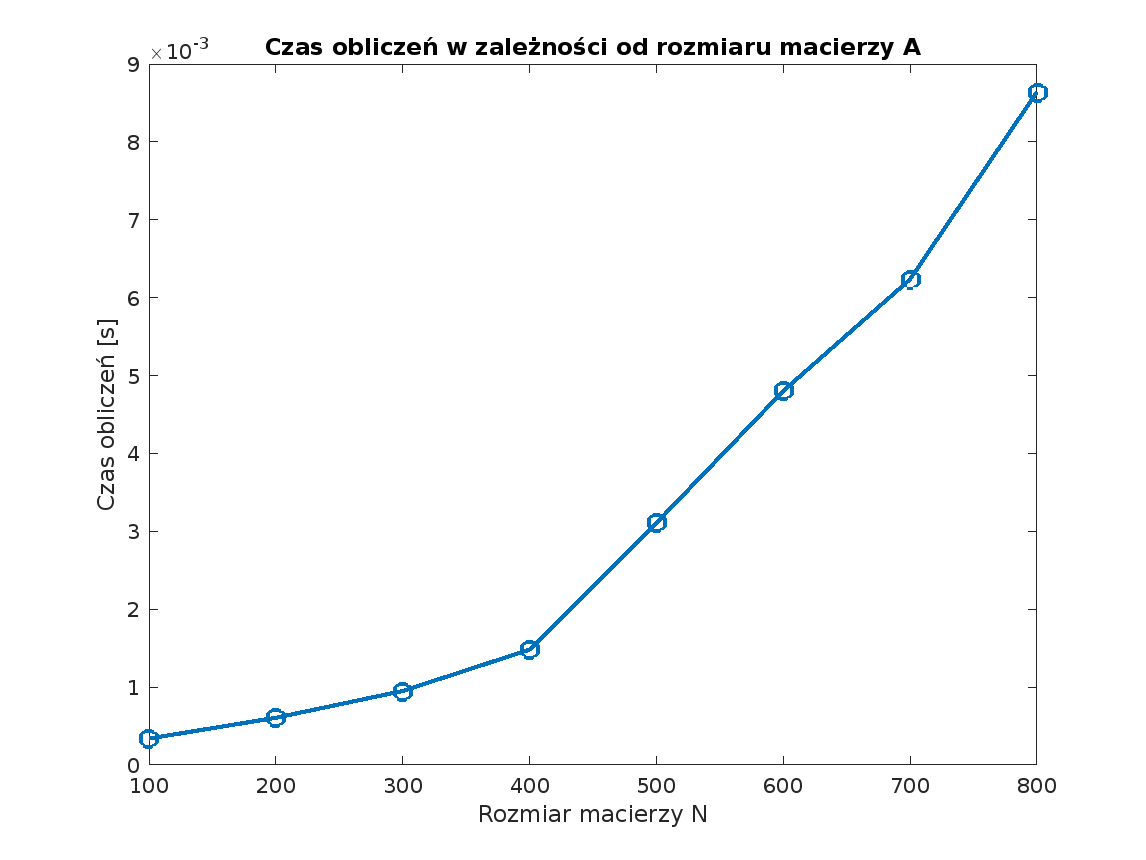
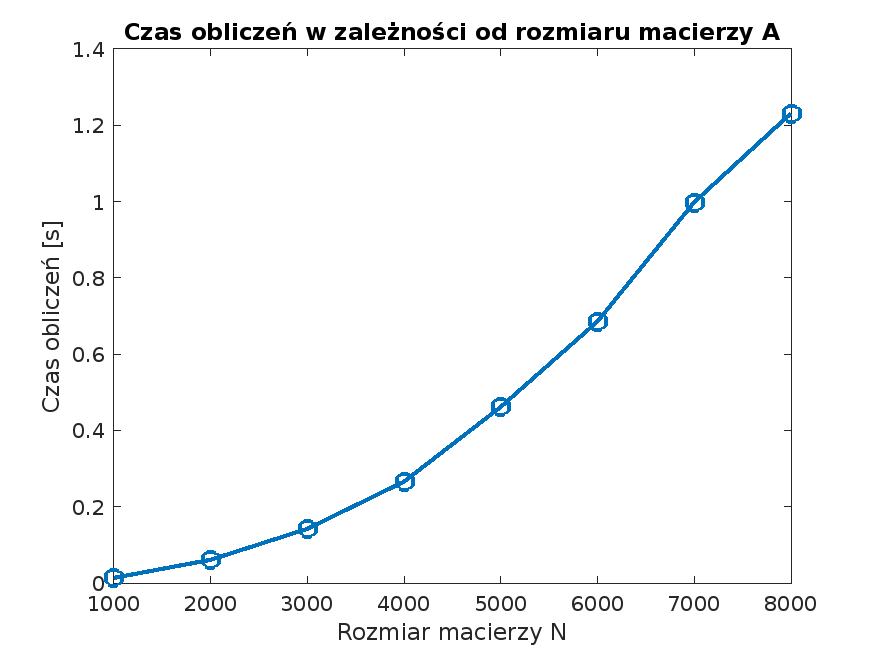
projekt1 merge

diff --git a/lab3/zadanie6/zadanie6.m b/lab3/zadanie6/zadanie6.m
@@ -1,6 +1,6 @@
 close all
 clear all
 
-vN = 100:100:800;
+vN = 1000:1000:8000;
 [A,b,x,vec_loop_times,vec_iteration_count] = benchmark_solve_Gauss_Seidel(vN);
 print -dpng zadanie6.png

diff --git a/lab3/zadanie4/zadanie4.m b/lab3/zadanie4/zadanie4.m
@@ -1,6 +1,6 @@
 close all
 clear all
 
-vN = 100:100:800;
+vN = 1000:1000:8000;
 [A,b,x,vec_loop_times,vec_iteration_count] = benchmark_solve_Jacobi(vN);
 print -dpng zadanie4.png

diff --git a/lab3/zadanie2/zadanie2.m b/lab3/zadanie2/zadanie2.m
@@ -2,7 +2,7 @@ clear all
 close all
 format compact
 
-vN = 100:100:800;
+vN = 1000:1000:8000;
 
 [A,b,x,vec_time_direct] = benchmark_solve_direct(vN);
 print -dpng zadanie2.png
